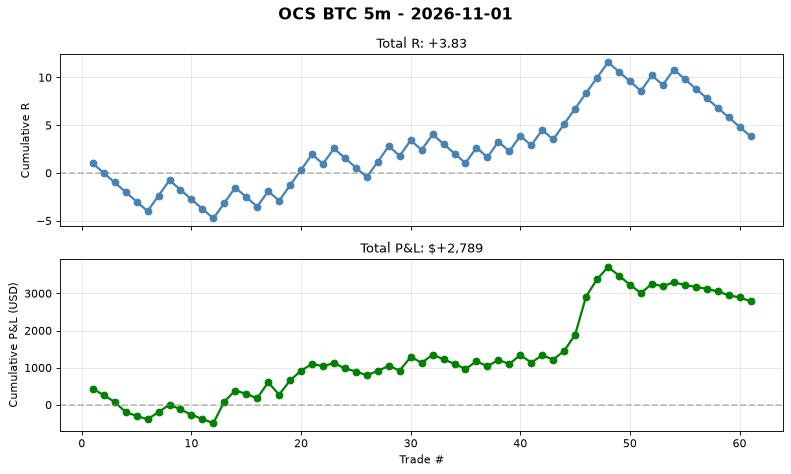
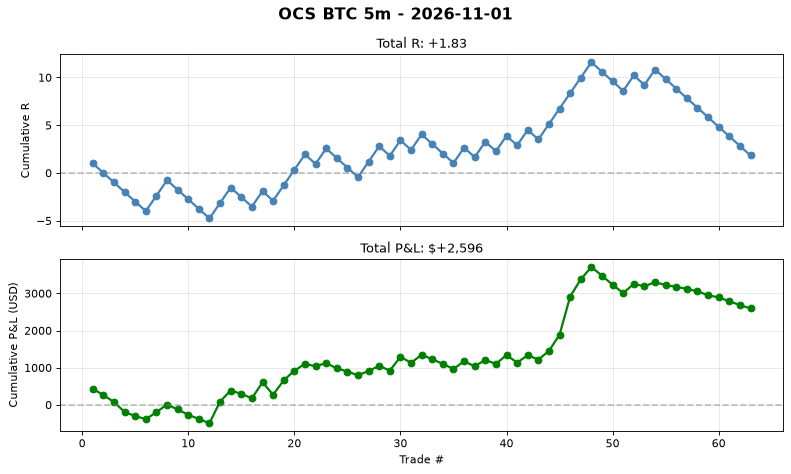
auto(ocs-btc): signal log 2026-11-01T15:03 trades=63

diff --git a/automation/reports/ocs_btc_5m/daily/2026-11-01.md b/automation/reports/ocs_btc_5m/daily/2026-11-01.md
@@ -1,12 +1,12 @@
 # OCS BTC 5m - 2026-11-01
 
 ## Summary
-- **Trades**: 5 (0W / 5L)
+- **Trades**: 7 (0W / 7L)
 - **Win Rate**: 0.0%
-- **Total R**: -5.00R
-- **Total P&L**: $-387
+- **Total R**: -7.00R
+- **Total P&L**: $-580
 - **Avg R**: -1.00R
-- **Profit Factor**: 1.11
+- **Profit Factor**: 1.05
 
 ## Exit Breakdown
 - T1 (+1.0R): 1
@@ -14,7 +14,7 @@
 - T3 (+2.618R): 0
 - T4 (+3.618R): 0
 - T5 (+5.0R): 0
-- SL (-1.0R): 36
+- SL (-1.0R): 38
 
 ## Best Trade
 - **SHORT** at 77,378 -> SL 77,431
@@ -27,11 +27,11 @@
 - Held for 2 bars
 
 ## Cumulative Stats (Lifetime)
-- Total trades: 61
-- WR: 41.0%
-- Avg R: 0.063
-- Total R: +3.83R
-- Profit Factor: 1.11
+- Total trades: 63
+- WR: 39.7%
+- Avg R: 0.029
+- Total R: +1.83R
+- Profit Factor: 1.05
 
 ## Chart
 See `daily/2026-11-01.png` for cumulative P&L curve.
